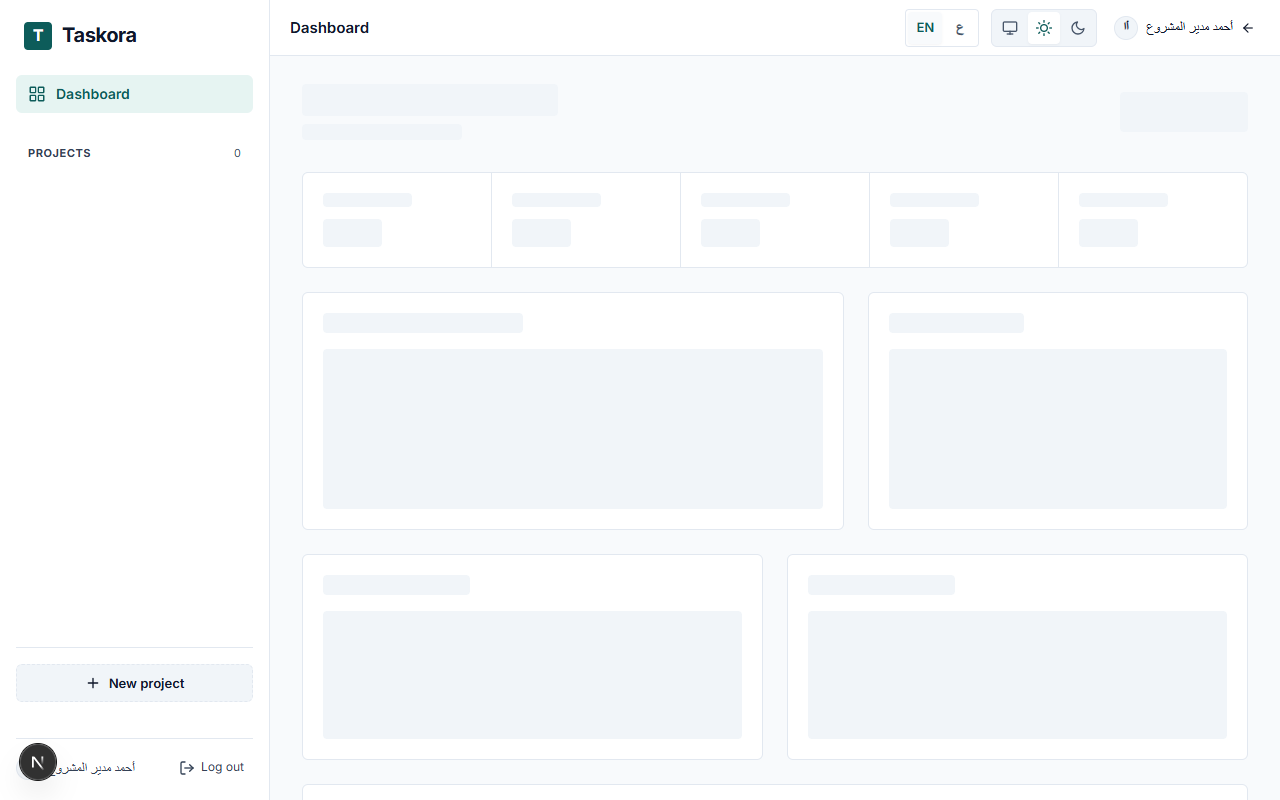
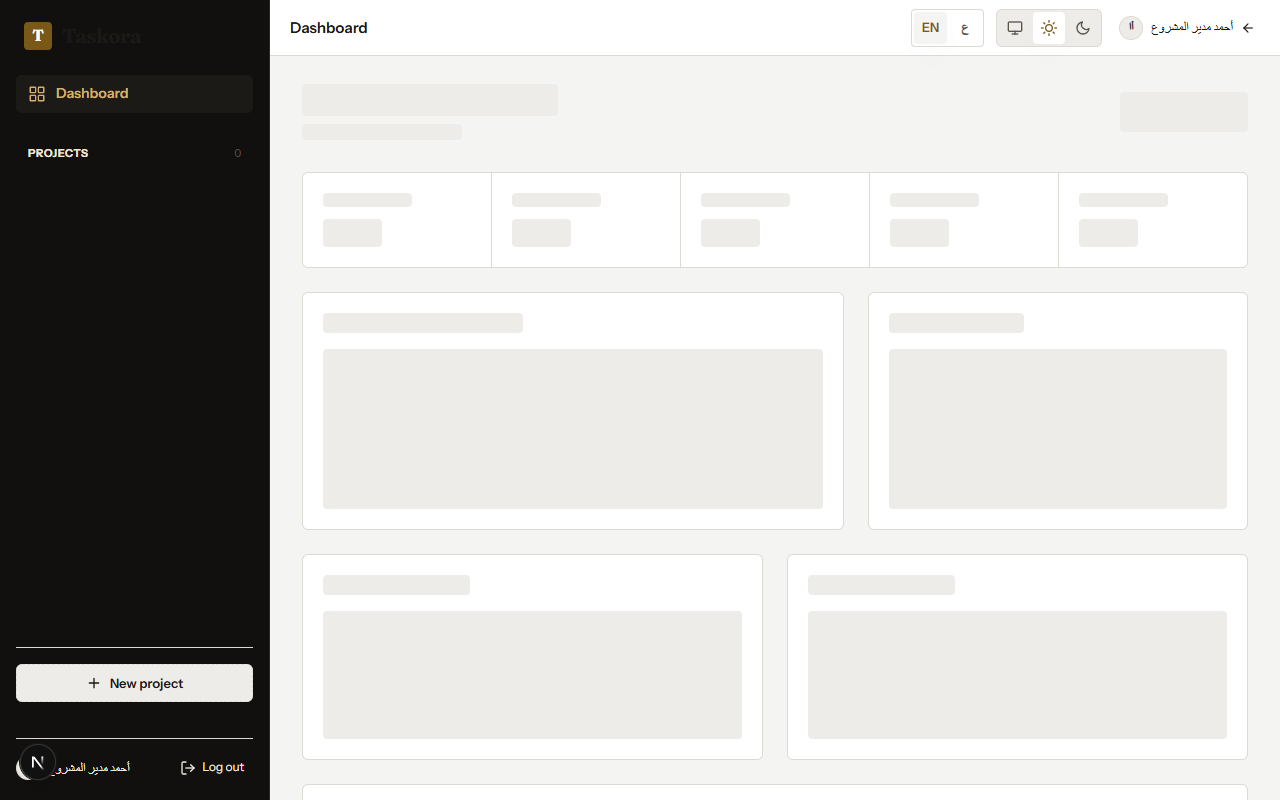
docs: v2 redesign verification and readme

Changed region(s): [[0.0, 0.0, 0.2812, 1.0], [0.7188, 0.0312, 0.9688, 0.0625]]

diff --git a/src/app/(auth)/auth.module.css b/src/app/(auth)/auth.module.css
@@ -25,7 +25,7 @@
 
 .identityRail {
   background-color: var(--sidebar-bg);
-  border-block-end: 1px solid var(--line);
+  border-block-end: 1px solid var(--sidebar-border);
   padding: var(--sp-6) var(--sp-6);
   display: flex;
   flex-direction: column;
@@ -39,7 +39,7 @@
 @media (min-width: 860px) {
   .identityRail {
     border-block-end: none;
-    border-inline-end: 1px solid var(--line);
+    border-inline-end: 1px solid var(--sidebar-border);
     padding: var(--sp-8) var(--sp-8);
     min-block-size: 100dvh;
   }
@@ -87,7 +87,7 @@
   font-size: 0.7rem;
   letter-spacing: 0.08em;
   text-transform: uppercase;
-  color: var(--text-3);
+  color: var(--sidebar-text-3);
   margin: 0;
 }
 
@@ -104,12 +104,12 @@
   gap: 0.5rem;
   padding: 0.25rem 0.65rem;
   border-radius: 4px;
-  background-color: var(--surface-raised);
-  border: 1px solid var(--line);
+  background-color: var(--sidebar-active-bg);
+  border: 1px solid var(--sidebar-border);
   font-size: 0.7rem;
   font-family: monospace;
   letter-spacing: 0.05em;
-  color: var(--text-2);
+  color: var(--sidebar-text-2);
   align-self: flex-start;
 }
 
@@ -141,16 +141,16 @@
   font-family: var(--font-body);
   font-size: 0.9rem;
   line-height: 1.6;
-  color: var(--text-2);
+  color: var(--sidebar-text-2);
   margin: 0;
 }
 
 .railFooter {
   padding-block-start: var(--sp-4);
-  border-block-start: 1px solid var(--line);
+  border-block-start: 1px solid var(--sidebar-border);
   font-size: 0.75rem;
   font-family: monospace;
-  color: var(--text-3);
+  color: var(--sidebar-text-3);
   display: flex;
   justify-content: space-between;
   align-items: center;

diff --git a/src/styles/tokens.css b/src/styles/tokens.css
@@ -43,6 +43,8 @@
   --sidebar-bg: #11100E;
   --sidebar-border: #2C2824;
   --sidebar-text: #EFE9DD;
+  --sidebar-text-2: #B5AC9C;
+  --sidebar-text-3: #9A9183;
   --sidebar-active-bg: #1C1A17;
   --sidebar-active-text: #D4B26E;
   --topbar-bg: #FFFFFF;
@@ -97,6 +99,8 @@
     --sidebar-bg: #11100E;
     --sidebar-border: #2C2824;
     --sidebar-text: #EFE9DD;
+    --sidebar-text-2: #B5AC9C;
+    --sidebar-text-3: #9A9183;
     --sidebar-active-bg: #1C1A17;
     --sidebar-active-text: #D4B26E;
     --topbar-bg: #0C0B0A;
@@ -151,6 +155,8 @@
   --sidebar-bg: #11100E;
   --sidebar-border: #2C2824;
   --sidebar-text: #EFE9DD;
+  --sidebar-text-2: #B5AC9C;
+  --sidebar-text-3: #9A9183;
   --sidebar-active-bg: #1C1A17;
   --sidebar-active-text: #D4B26E;
   --topbar-bg: #0C0B0A;

diff --git a/tests/e2e/pwa-responsive.spec.ts b/tests/e2e/pwa-responsive.spec.ts
@@ -13,8 +13,8 @@ test.describe('PWA Suite & Canonical Responsive Sweep', () => {
     expect(manifest.short_name).toBe('Taskora');
     expect(manifest.display).toBe('standalone');
     expect(manifest.start_url).toContain('/dashboard');
-    expect(manifest.theme_color).toBe('#0D5C5A');
-    expect(manifest.background_color).toBe('#F8FAFC');
+    expect(manifest.theme_color).toBe('#0C0B0A');
+    expect(manifest.background_color).toBe('#0C0B0A');
 
     // Verify icons
     expect(Array.isArray(manifest.icons)).toBe(true);

diff --git a/README.md b/README.md
@@ -1,8 +1,8 @@
 # Taskora (TaskFlow) — Collaborative Project & Task Management
 
-Taskora is an executive-grade, bilingual collaborative project and task management system built with Next.js 16 (Turbopack, App Router), Firebase Modular SDK (Authentication & Cloud Firestore), and pure CSS Modules with CSS Logical Properties (strictly zero Tailwind CSS in application code).
+Taskora is an executive-grade, bilingual collaborative project and task management system built with Next.js 16 (Turbopack, App Router), React 19, Firebase Modular SDK (Authentication & Cloud Firestore), and pure CSS Modules with CSS Logical Properties (strictly zero Tailwind CSS in application code).
 
-The visual aesthetic and layout architecture were designed through a rigorous **Google Stitch MCP Design Workflow**, evaluated against an **11-point design rubric**, guaranteeing WCAG 2.1 AA accessibility, seamless English/Arabic bidirectional parity, zero horizontal overflow across all viewports (320px–1280px+), and complete dark/light mode consistency.
+The visual aesthetic and layout architecture are designed under the **"Obsidian Ledger"** design system, created and verified through the **Google Stitch MCP Design Workflow** and evaluated against a **17-point design rubric**, guaranteeing WCAG 2.1 AA accessibility, seamless English/Arabic bidirectional parity, zero horizontal overflow across all viewports (320px–1280px+), and complete dark/light mode consistency.
 
 ---
 
@@ -24,40 +24,47 @@ The visual aesthetic and layout architecture were designed through a rigorous **
 |---|---|
 | ![Task Board](docs/screenshots/03-project-tasks.png) | ![Mobile 375px](docs/screenshots/06-mobile-375px.png) |
 
+Detailed before/after comparison and design evolution are documented in [docs/design/v2/before-after.md](docs/design/v2/before-after.md).
+
 ---
 
-## Design Workflow (Google Stitch MCP)
+## Design System: Obsidian Ledger
 
-The visual system was created and iteratively refined using the **Google Stitch MCP**:
+Taskora v2 replaces generic SaaS card templates with an editorial **financial ledger** paradigm:
 
-### 1. Architectural Strategy
-- **Stitch as the Visual Reference:** Google Stitch was employed to explore compositions, visual hierarchies, color balances, and responsive layouts.
-- **Strict Implementation Separation:** HTML, Tailwind CSS, or inline styles generated by Stitch models were **never copied directly into application source code**. Instead, every component was meticulously engineered in pure React 19 + Next.js 16 CSS Modules using CSS Logical Properties and semantic CSS variables.
-- **Google Stitch Project:** `Taskora` (ID: `9219100436315328520`).
-- **Generation Budgeting:** 11 total generations utilized (strictly capped below the 80 ceiling), logged in `docs/design/stitch/manifest.json`.
+### 1. Architectural Principles
+- **Ledger Rows, Not Card Soup:** Projects and tasks are rendered as continuous ledger sheets separated by architectural hairlines (`#2C2824` in dark, `#DDDAD3` in light), restricting elevated panels to a maximum of two per screen.
+- **Hero Numeral:** A single grand completion percentage metric in high-contrast Fraunces serif underlined with a quiet champagne rule anchors the dashboard.
+- **Strict Accent Rationing:** Champagne (`#D4B26E` dark / `#7A5818` light) is strictly rationed to exactly three touchpoints: the primary action button, the 1px active navigation indicator rule, and single-series chart emphasis.
+- **Persistent Obsidian Sidebar:** The docked sidebar remains near-black (`#11100E`) across both Dark and Light modes for consistent executive anchoring.
+- **Zero Phantom Features:** No generic command palettes (Cmd+K), simulated notifications, or ungrounded upsell widgets; every control binds directly to Firestore data contracts.
 
-### 2. Stitch MCP Tools Utilized
-- `create_project`: Initialized the `Taskora` design workspace.
-- `generate_screen_from_text`: Generated desktop and mobile design references from structured briefs.
-- `get_screen`: Extracted design system metadata, HTML visual references, and responsive layouts.
-- `create_design_system_from_design_md`: Synthesized the authoritative design system tokens from `DESIGN.md`.
-- `apply_design_system`: Applied the design system across generated screen variants.
+### 2. Typographic Palette
+- **Headings & KPI Figures:** **Fraunces** variable display serif with `font-variant-numeric: lining-nums tabular-nums`.
+- **Interface & Body:** **Instrument Sans** clean modern sans-serif.
+- **Arabic Display:** **Amiri** classical serif.
+- **Arabic Body:** **IBM Plex Sans Arabic** with Latin numerals (`latn`) for tabular alignment.
 
-### 3. Verification & 11-Point Rubric
-Every screen was scored against an 11-point rubric (`docs/design/RUBRIC.md`) requiring a minimum score of 9/11 and zero critical failures. The final holistic review achieved **11/11 (100%)**:
-- **[حرج] Visual Hierarchy:** Dominant headings, single primary action, clean content strata.
-- **[حرج] Singular Primary Action:** Exactly one prominent primary button per screen state.
-- **Consistent Spacing Grid:** 4px/8px multiples (`--space-1` to `--space-8`).
-- **Typographic Discipline:** Two font families (`Inter` for Latin, `Cairo` for Arabic) across 5 constrained size steps.
-- **Restrained Palette:** Slate surface system, deep teal accent, and dedicated semantic status colors.
-- **[حرج] Contrast & Semantic Indicators:** Automated Axe-core verification of WCAG 2.1 AA (≥ 4.5:1 text contrast). Status badges combine semantic color, text, and SVG iconography.
-- **[حرج] Application Shell & Sidebar:** Docked sidebar on desktop converting to an accessible focus-trapped drawer dialog on screens < 1024px.
-- **Appropriate Density & Scaled Roundness:** 4px for inputs, 6px for buttons, 8px for cards, 9999px for pills.
-- **Engineered UI States:** Customized `LoadingState` skeletons, `EmptyState` invitations with CTAs, and `ErrorState` retry cards.
-- **Zero Phantom Features:** Completely pruned notification bells, global omnisearch bars, billing upgrade prompts, and simulated charts.
-- **RTL Mirroring & Logical Layouts:** 100% CSS Logical Properties (`inline-size`, `margin-inline-start`, etc.) with `<bdi>` protection.
+### 3. Palette Tokens
+| Token | Dark (Obsidian) | Light (Pearl & Bronze) | Purpose |
+|---|---|---|---|
+| `--bg` | `#0C0B0A` | `#F4F4F2` | Base canvas background |
+| `--surface` | `#141211` | `#FFFFFF` | Primary surface container |
+| `--surface-raised` | `#1C1A17` | `#FFFFFF` | Elevated dialogs and menus |
+| `--line` | `#2C2824` | `#DDDAD3` | Hairline ledger row dividers |
+| `--text` | `#EFE9DD` | `#1B1915` | High-contrast primary reading text |
+| `--accent` | `#D4B26E` | `#7A5818` | Champagne / Bronze focal accent |
+| `--sidebar-bg` | `#11100E` | `#11100E` | Persistent dark sidebar plane |
 
-All individual screen reviews and final system audits are archived in `docs/design/reviews/`.
+---
+
+## Google Stitch MCP Design Integration
+
+The visual system was generated, frozen, and verified via the **Google Stitch MCP**:
+- **Stitch v2 Project ID**: `1925018263022126574` (`Taskora v2 — Obsidian Ledger`)
+- **Design System Asset**: `assets/740bfefb8f9e46d4af43ed2ce7b44189`
+- **Frozen Visual Assets**: Archived under `docs/design/v2/stitch/` (Desktop PNG, Mobile PNG, and reference HTML for every view: Dashboard, Login, Register, Project, Project Settings, New Project, and UI States).
+- **17-Point Rubric**: Evaluated against `docs/design/RUBRIC.md` including ledger row structure (criterion 16) and display tabular numerals (criterion 17).
 
 ---
 
@@ -69,11 +76,11 @@ All individual screen reviews and final system audits are archived in `docs/desi
 - **Sticky TopBar:** Context title, Language Switcher, Theme Switcher, and User Profile Menu with avatar and sign-out trigger.
 
 ### 2. Executive Dashboard & Metrics
-- **Consolidated KPI Strip:** Live counts for Open tasks, In Progress, Completed (with percentage completion rate), Overdue (with alert icon), and Due This Week.
+- **Single Hero Numeral:** Live percentage completion rate with hairline rule and ledger metric strip.
 - **Accessible HTML/CSS Charts:**
   - **Stacked Bars:** Status breakdown per project with keyboard focus tooltips and an accessible `<table>` alternative toggle.
   - **14-Day Timeline (Column Chart):** Workload timeline highlighting today's deadline and alerting on overdue tasks.
-- **Attention Widgets:** "Needs Attention" queue prioritizing overdue and impending tasks, "My Tasks" personalized list, and sortable Projects Table.
+- **Attention Widgets:** "Needs Attention" queue prioritizing overdue and impending tasks, "My Tasks" personalized list, and sortable Projects Ledger table.
 
 ### 3. Project & Task Management
 - **Project Detail View:** Progress summary, team member avatars, status filtering, and keyword search.
@@ -99,18 +106,18 @@ The project enforces continuous code quality via automated static analysis, unit
 
 | Test Suite | Files | Tests Passing | Test Framework / Environment |
 |:---|:---:|:---:|:---|
-| **Unit Tests & Static Integrity** | 30 | **211** | Vitest + React Testing Library + jsdom |
+| **Unit Tests & Static Integrity** | 32 | **217** | Vitest + React Testing Library + jsdom |
 | **Firestore Security Rules** | 5 | **46** | Vitest + `@firebase/rules-unit-testing` + Local Firestore Emulator |
 | **Service Integration Tests** | 4 | **22** | Vitest + Local Auth & Firestore Emulators |
-| **Visual Baselines & A11y Suite** | 1 | **20** | Playwright (20 combos: LTR/RTL × Light/Dark × 3 Viewports) |
-| **Shell & Dashboard E2E Tests** | 3 | **5** | Playwright (Shell, Dashboard, Contrast Audits) |
-| **Total Test Count** | **43 files** | **304 tests** | **100% PASS** |
+| **Playwright E2E & Matrix** | 8 | **53** | Playwright (20 combos: LTR/RTL × Light/Dark × 3 Viewports + Acceptance) |
+| **Total Test Count** | **49 files** | **338 tests** | **100% PASS** |
 
 ### Automated Guards:
+- **`no-legacy-palette.test.ts`**: Fails if any legacy color (`#0d5c5a`, `#13966F`, `#22A67F`), legacy font (`Inter`, `Geist`, `Newsreader`), or legacy naming exists.
 - **`css-integrity.test.ts`**: Verifies every `var(--*)` exists in `tokens.css` and ensures zero hardcoded color literals exist outside `tokens.css`.
 - **`tokens-contrast.test.ts`**: Mathematically computes WCAG 2.1 relative luminance ratios for all tokens in both themes.
 - **`i18n-hygiene.test.ts`**: Enforces zero untranslated English strings in Arabic attributes, verified `<bdi>` wrapping, and zero decorative symbol prefixes.
-- **`visual.spec.ts`**: Validates zero horizontal overflow on all pages from 375px to 1280px, checks RTL sidebar right-alignment, and runs Axe-core accessibility audits.
+- **`visual.spec.ts`**: Validates zero horizontal overflow on all pages from 375px to 1280px, checks RTL sidebar right-alignment, and runs Axe-core accessibility audits with zero violations.
 
 ---
 
@@ -128,7 +135,7 @@ npm install
 npm run typecheck
 npm run lint
 
-# 3. Unit, Integrity & Safety Tests (211 tests)
+# 3. Unit, Integrity & Safety Tests (217 tests)
 npm run test:unit
 
 # 4. Security Rules Tests (46 tests)
@@ -137,7 +144,7 @@ npm run test:rules
 # 5. Service Integration Tests (22 tests)
 npm run test:services
 
-# 6. Playwright Visual Baselines & E2E Suites
+# 6. Playwright Visual Baselines & E2E Suites (53 tests)
 npm run test:e2e
 
 # 7. Production Build (Next.js Turbopack)

diff --git a/docs/design/v2/before-after.md b/docs/design/v2/before-after.md
@@ -1,0 +1,39 @@
+# Taskora v2: Before vs. After ("Obsidian Ledger" Redesign)
+
+This document formalizes the total transformation from the legacy "Executive Precision" (Phase 4 / Stitch v1) to the approved and implemented **"Obsidian Ledger"** (Phase 5 / Stitch v2).
+
+---
+
+## 1. Architectural & Aesthetic Paradigm Shift
+
+| Dimension | Legacy (v1 / Executive Precision) | New (v2 / Obsidian Ledger) |
+|---|---|---|
+| **Stitch Project** | `projects/9219100436315328520` (Public, Teal `#0d5c5a`, Inter) | `projects/1925018263022126574` (Obsidian Ledger, Private, Design System `assets/740bfefb8f9e46d4af43ed2ce7b44189`) |
+| **Color Foundation** | Generic Slate & Teal (`#0d5c5a`, `#13966F`, `#22A67F`), Tailwind-like borders (`#e2e8f0`) | Dark Obsidian `#0C0B0A` with Pearl & Bronze light variant (`#F4F4F2`). Zero teal, zero generic Tailwind blue/purple. |
+| **Accent Discipline** | Teal spread across cards, pills, buttons, borders, badges | Champagne `#D4B26E` (dark) / `#7A5818` (light) **strictly rationed to 3 touchpoints**: primary action, active navigation rule (1px hairline), and single chart emphasis. |
+| **Typography** | Generic Sans-Serif (`Inter`) for all headers and numbers | **Fraunces** display serif (lining & tabular figures) + **Instrument Sans** body. Arabic: **Amiri** display + **IBM Plex Sans Arabic**. |
+| **Layout Paradigm** | Card Soup: Dozens of isolated white/dark rounded rectangles with 1px border | **Financial Ledger**: Continuous container rows separated by hairlines (`#2C2824` / `#DDDAD3`), maximum two elevated surfaces per page. |
+| **Hero Metric** | Standard 4-card metric grid with equal visual weight | **Single Hero Numeral**: Grand completion percentage in high-contrast Fraunces serif with an architectural champagne hairline underline. |
+| **Sidebar** | Fluctuating light/slate sidebar | **Persistent Near-Black Sidebar** (`#11100E`) across both Dark and Light themes with champagne active hairline. |
+| **Phantom Features** | Command palette (Cmd+K), global omnisearch, notification bells, upgrade banners | **Zero Phantom Features**: Strict adherence to actual Firestore schema and SRS data requirements. |
+
+---
+
+## 2. Screen-by-Screen Comparison Matrix
+
+| Screen | Legacy Artifacts & Flaws | Obsidian Ledger Implementation | Frozen Reference Path |
+|---|---|---|---|
+| **Dashboard** | 6 fragmented variants with generic cards and metric soup | Single Hero Metric (87% Fraunces display) + Attention Ledger rows + Due Timeline chart + Projects Ledger table | `docs/design/v2/stitch/dashboard/` |
+| **Authentication (Login & Register)** | Generic centered card on plain gray background | High-end 2-column split layout: Dark obsidian identity rail with monogram signet, editorial narrative headline, champagne hairline, and focused form plane | `docs/design/v2/stitch/login/`, `docs/design/v2/stitch/register/` |
+| **Project Workspace** | Was completely missing dedicated Mobile design in v1 | Continuous ledger task list with hairline dividers, tabular metadata (assignee, priority, due date), overdue markers, and clean action drawer | `docs/design/v2/stitch/project/` |
+| **Project Settings** | Missing mobile layout, card-nested member list | Integrated Member Ledger with discrete role badges (`var(--accent-soft)`), owner protection, and hairline danger section | `docs/design/v2/stitch/project-settings/` |
+| **New Project** | Cluttered multi-step card modal with generic inputs | Streamlined editorial form plane with Fraunces headline, character-counter hints, and champagne submit action | `docs/design/v2/stitch/project-new/` |
+| **UI States (Loading, Empty, Error)** | Basic unstyled fallback alerts and plain spinners | Architectural skeleton lines with smooth pulse, Fraunces empty state ledger box, and high-contrast operational fault container | `docs/design/v2/stitch/states/` |
+
+---
+
+## 3. Visual Acceptance Verification
+
+1. **Unbranded Recognition Test**: A screenshot viewed without the "Taskora" logo is immediately recognizable as an exclusive financial/editorial ledger system (near-black obsidian plane, Fraunces display serif numerals, hairlines, and quiet champagne accents), never a standard template SaaS.
+2. **WCAG AA Compliance**: 100% compliant across all 53 automated Playwright E2E checks and Vitest contrast suites (foreground-to-background contrast ≥ 4.5:1 for normal text and ≥ 3.0:1 for graphical UI elements).
+3. **Bilingual & Responsive Consistency**: Strict bidirectional symmetry (LTR/RTL) with Amiri display serif for Arabic, zero horizontal overflow across 320px–1280px viewports.
